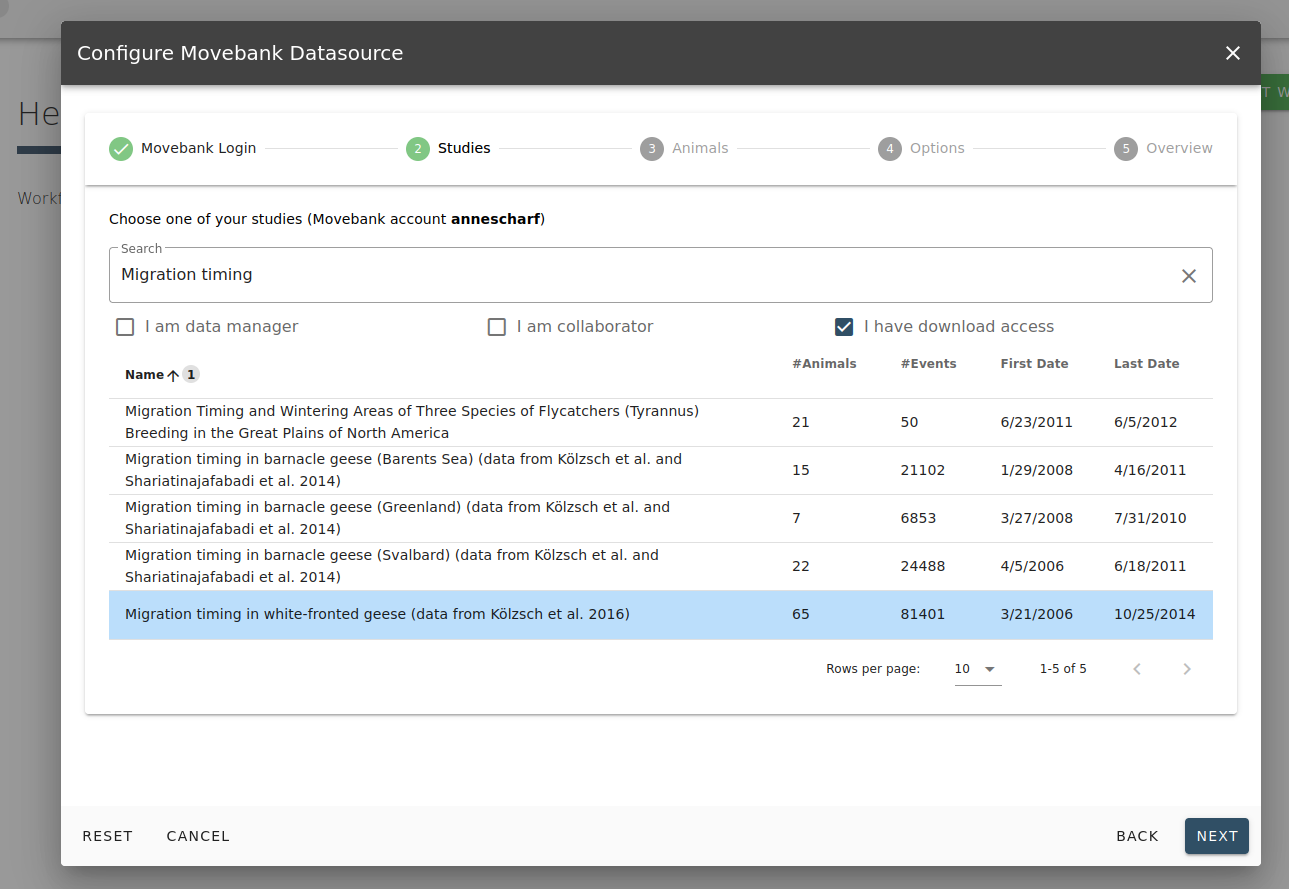
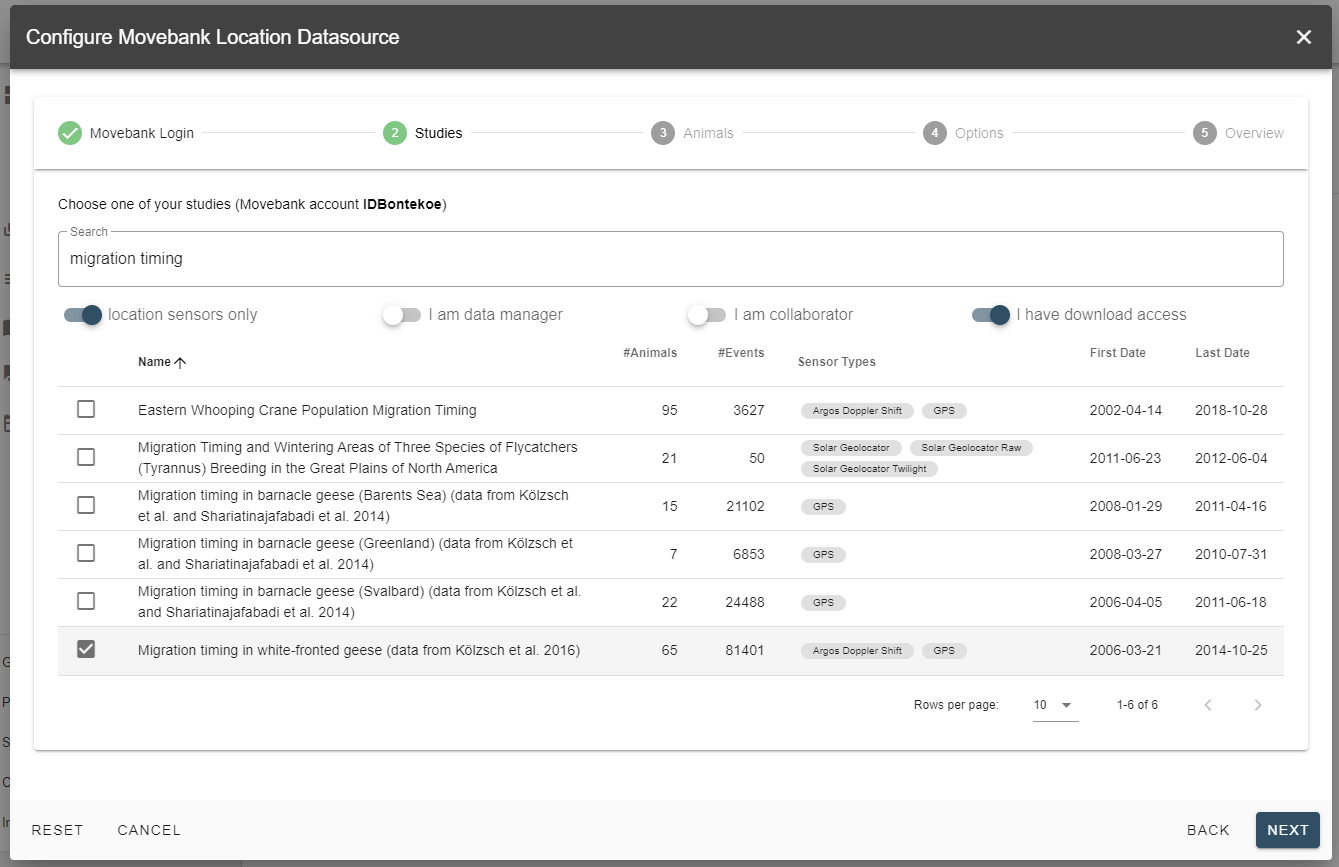
Updated "Download your data from Movebank" section of hello_world_workflow.md and added an updated screenshot in files/HelloWorld_selectStudy.png

diff --git a/hello_world_workflow.md b/hello_world_workflow.md
@@ -1,4 +1,4 @@
-# Hello world! A Workflow example
+# Hello world! - A Workflow example
 
 Please follow the instructions below and create your first running Workflow on MoveApps. Once you have [registered](https://www.moveapps.org/register) in MoveApps, log in and you can start.
 In the instructions below, buttons on the website are shown in `orange`.
@@ -6,15 +6,18 @@ In the instructions below, buttons on the website are shown in `orange`.
 ## Download your data from Movebank
 From the main menu in your `Dashboard`, select `Workflows` and then `Create New Workflow`. After providing a name for the Workflow, you will be asked to `Select A Data Source`. Choose `Movebank Location` and provide your [Movebank](https://www.movebank.org) login details.
 
-![](files/HelloWorld_selectDataSource.png)
+![](files/HelloWorld_selectDataSource.png ':size=80%')
 
-In a succession of settings windows you can select a study from which you have access to download data, select individual animals, a time window of required data and an option how to deal with duplicate locations. For this example let us select the public study `Migration timing in white-fronted geese (data from Kölzsch et al. 2016)`, note that you can search for studies. For shorter run times in this example let us select data of only two animals, say 700 and 712. As the data sets are not very dense, for now a time window selection is not necessary. Select `Finish` in the final `Overview` window. Your first Workflow made up of one App is available for running.
+In a succession of settings windows you can select a study from which you have access to download data, individual animals, a time window of required data and an option how to deal with duplicate locations.
+For this example let us select the public study `Migration timing in white-fronted geese (data from Kölzsch et al. 2016)`, note that you can search for studies. 
 
-![](../files/HelloWorld_selectStudy.png)
+![](files/HelloWorld_selectStudy.png)
 
-If you like, go ahead and click on `Start Workflow` on the top right and, after the run is finished, explore the downloaded data in the `Cargo Agent`, which can be accessed via the small green circle appearing on the right side of the App Container (red arrow) once the run is finished. Explore the coloured dots (by hovering over them) that indicate the status of each App's performance (blue arrow). On the right side of the Workflow name there is also a action point which will indicate if the workflow instance is "running" or "stopped" (green arrow). Note that if the workflow contains a Shiny App its status will always be "running", also after finishing, in order to allow the interaction with the App UI.
+For shorter run times in this example let us select data of only two animals, say 700 and 712. As the data sets are not very dense, for now a time range selection is not necessary. Select `Finish` in the final Overview window. Your first Workflow, made up of one App, is now available for running.
 
-![](../files/HelloWorld_MoveApps_CargoAgent.png)
+If you like, go ahead and click on `Start Workflow` on the top right and, after the run is finished, explore the downloaded data (Output Details) in the `Cargo Agent`, which can be accessed via the small green circle appearing on the right side of the App Container (red arrow) once the run is finished. Explore the coloured dots (by hovering over them) that indicate the status of each App's performance (blue arrow). On the right side of the Workflow name there is also a action point which will indicate if the workflow instance is "running" or "stopped" (yellow arrow). Note that if the workflow contains a Shiny App its status will always be "running", also after finishing, in order to allow the interaction with the App UI.
+
+![](files/HelloWorld_MoveApps_CargoAgent.png)
 
 ## Plot your positions in a Shiny User Interface
 Now click on the `+` next to the first App Container to select an App that would analyse or visualise the downloaded data. Let us stay simple and select the visualisation App `Static Map` (formerly Simple Map). There is a single variable that has to be configured, namely the edge size of area surrounding the locations on the map. Select `1` for now, this parameter can also be adapted in the UI directly. Now you can `Start Workflow` and `Open App UI` once everything has finished. To reduce run time you can use `Pin to this App` in the Movebank App, which will block it from running again, in case you have let it run before.
